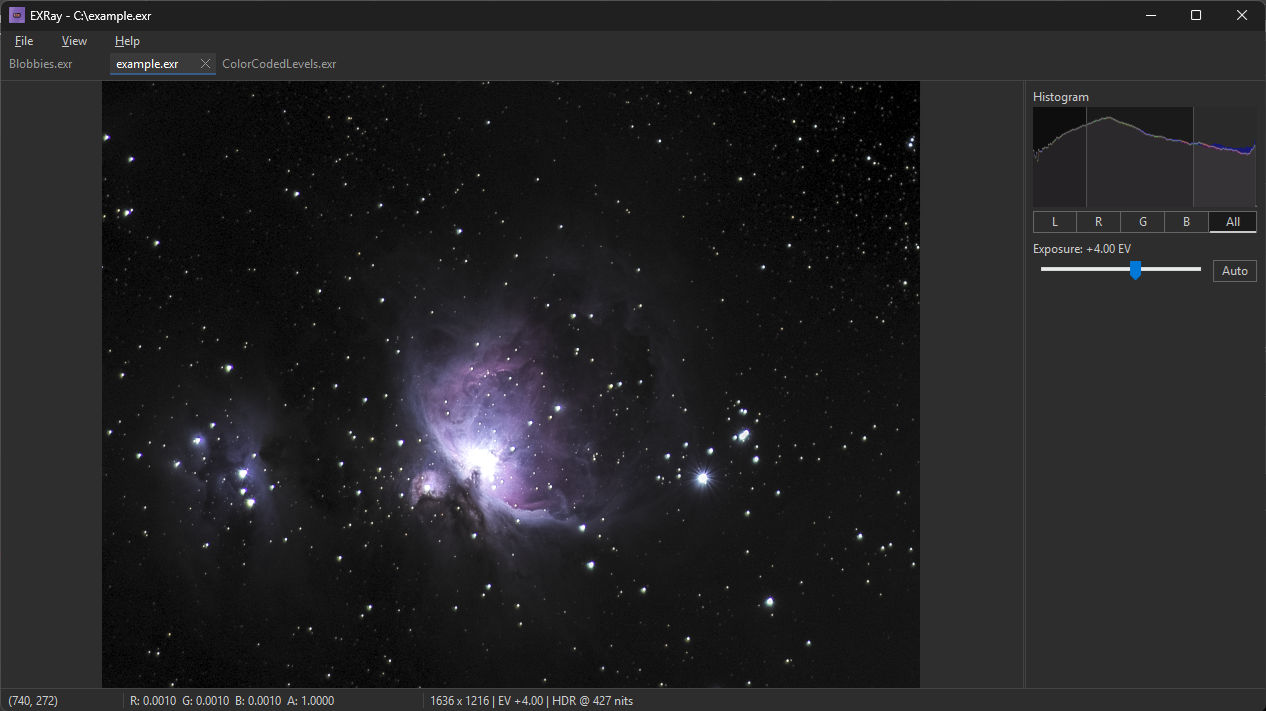
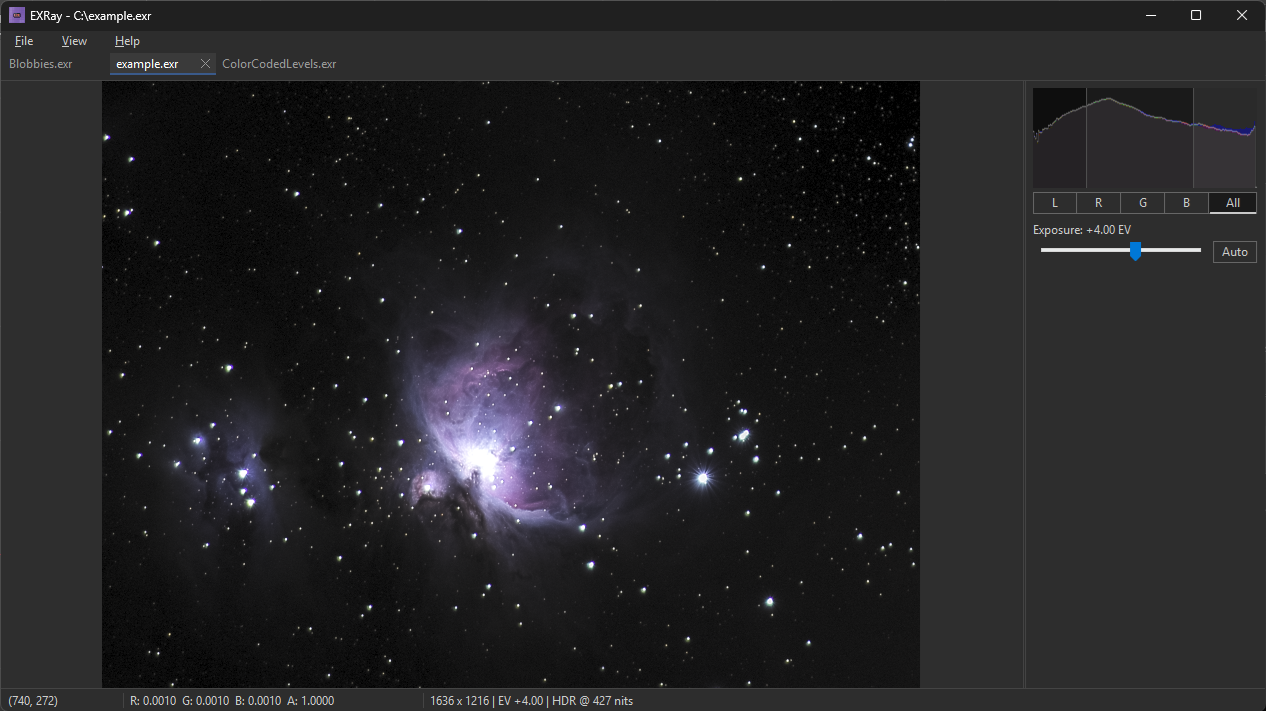
Remove "Histogram" text label (#8)
It's self-evidently a histogram.

Changed region(s): [[0.8009, 0.2475, 1.0, 0.4023], [0.8934, 0.1547, 1.0, 0.2166], [0.8009, 0.1238, 0.8626, 0.1547]]

diff --git a/src/sidebar.cpp b/src/sidebar.cpp
@@ -322,8 +322,6 @@ void Sidebar::LayoutControls()
     int y = m;
 
     // Histogram area is painted in OnPaint — just skip past it
-    // Label "Histogram" is drawn in OnPaint
-    y += labelH + MulDiv(2, dpi, 96);
     // histogram rect
     y += histH + MulDiv(4, dpi, 96);
 
@@ -422,10 +420,6 @@ void Sidebar::OnPaint()
     int y = m;
 
     // --- Histogram section ---
-    RECT labelRect = {m, y, w - m, y + labelH};
-    DrawTextW(memDC, L"Histogram", -1, &labelRect, DT_LEFT | DT_SINGLELINE | DT_VCENTER);
-    y += labelH + MulDiv(2, dpi, 96);
-
     // Histogram background
     RECT histRect = {m, y, w - m, y + histH};
     HBRUSH histBg = CreateSolidBrush(Colors::Surface);
